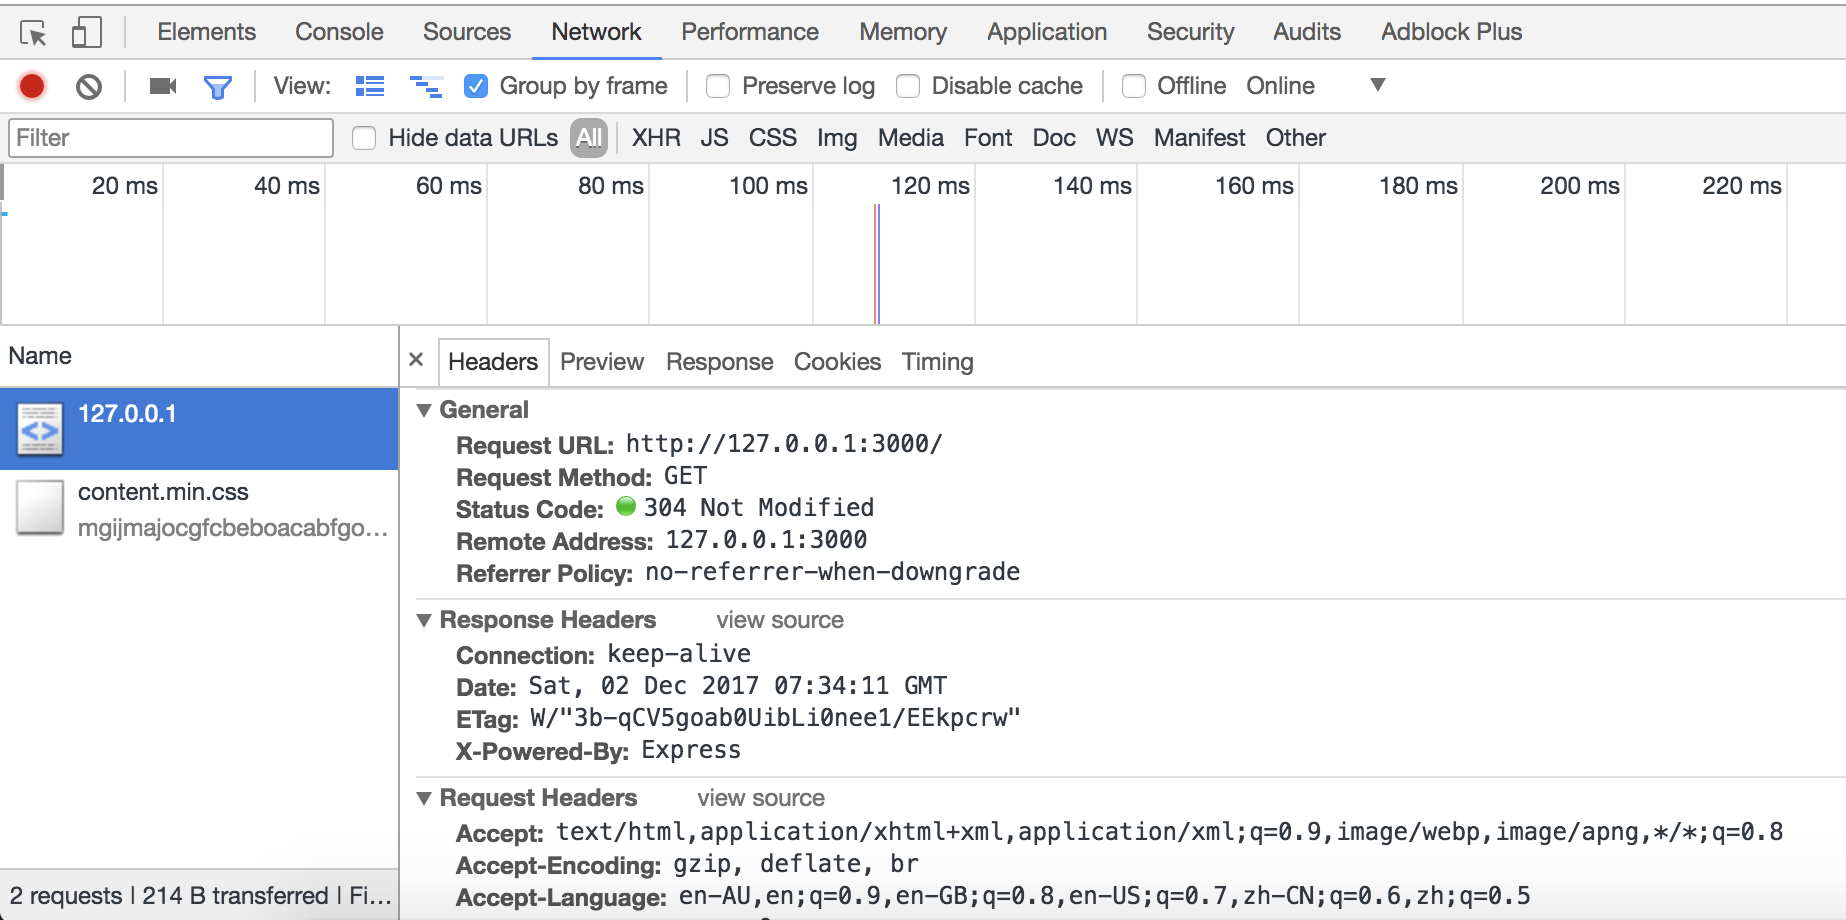
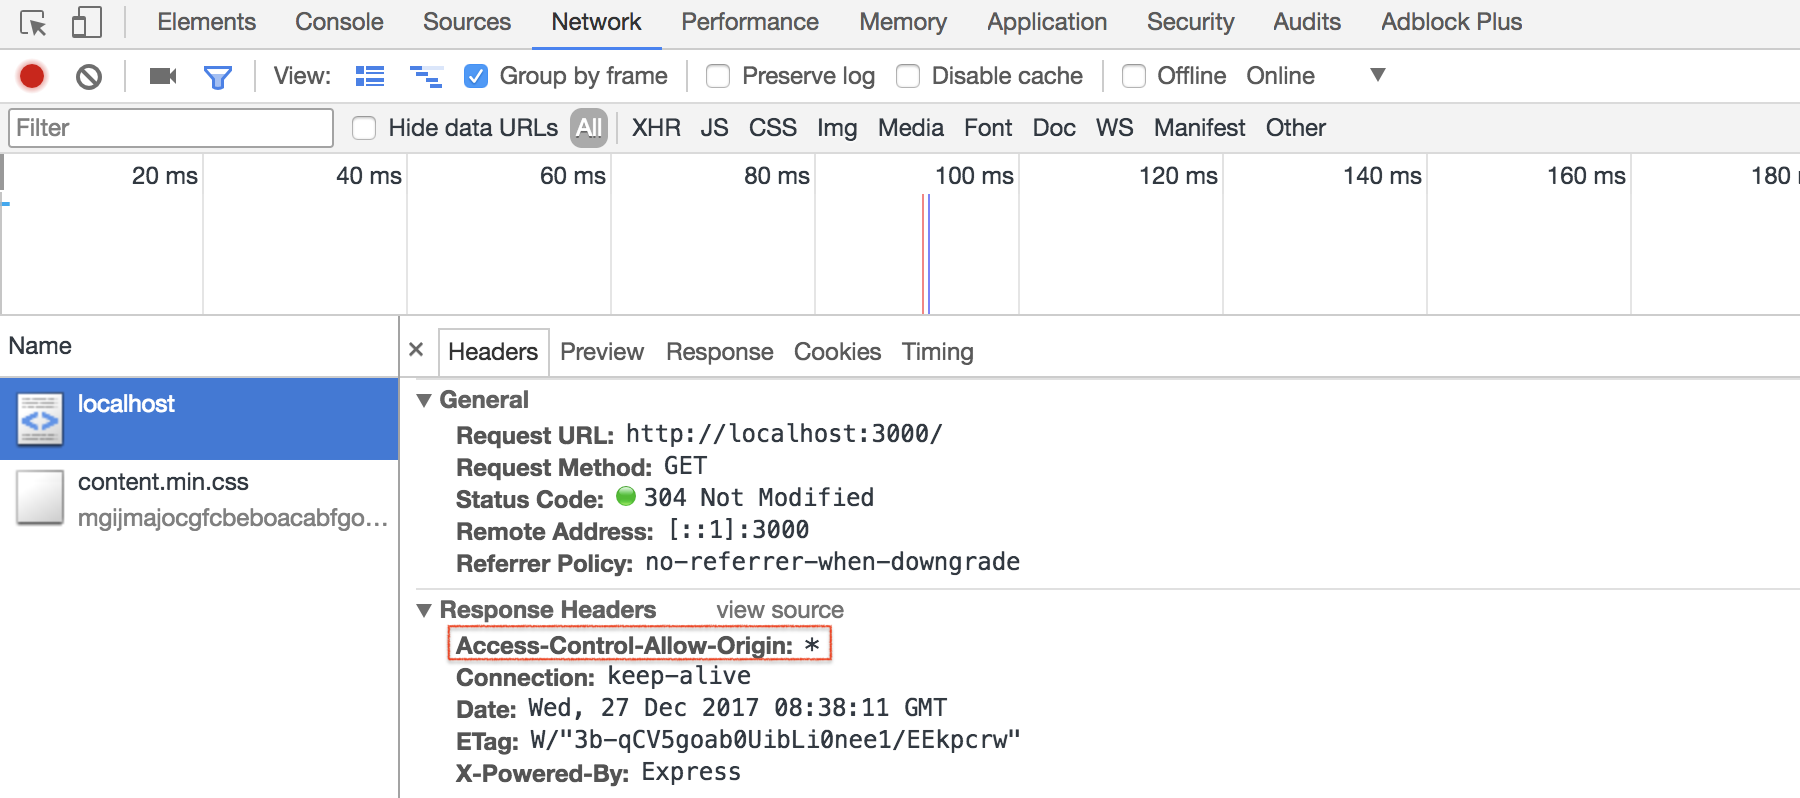
add post 2017-12-27-middleware-tutorial

diff --git a/_posts/ithome/2017/2017-12-27-middleware-tutorial.md b/_posts/ithome/2017/2017-12-27-middleware-tutorial.md
@@ -1,6 +1,6 @@
 ---
 layout: post
-title: '[JS學習筆記] 新增 middleware(body-parser、cors、morgan)'
+title: '[Node.js打造API] 新增 middleware(body-parser、cors、morgan)'
 categories: '2018iT邦鐵人賽'
 description: '新增middleware(body-parser、cors、morgan)'
 keywords: Express, MVC, Router, middleware
@@ -36,7 +36,7 @@ yarn add body-parser
 
 ##### 2.設定 body-parser 的 middleware
 
-還記得 express.js 這個檔案嗎？先前有提到他是管理所有 middleware 中介軟體的所有設定，所以我們今天就要在這個檔案內做設定，由於現階段還沒正式開始寫 API 所以這篇教學並不會馬上測試結果，等後面幾篇寫好 POST 的 API我們就可以馬上來試囉。
+還記得 express.js 這個檔案嗎？先前有提到他是管理所有 middleware 中介軟體的所有設定，所以我們今天就要在這個檔案內做設定，由於現階段還沒正式開始寫 API 所以這篇教學並不會馬上測試結果，等後面幾篇寫好 POST 的 API 我們就可以馬上來試囉。
 
 ```js
 import bodyParser from 'body-parser';
@@ -72,8 +72,12 @@ import cors from 'cors';
 // enable CORS - Cross Origin Resource Sharing
 app.use(cors());
 ```
+- 有加跨來源資源共享
 
 <img src="/images/posts/it2018/img1061227-3.png">
+
+- 無加跨來源資源共享
+
 <img src="/images/posts/it2018/img1061227-4.png">
 
 當然你也可以在每個路由中手動設定存取權限的標頭檔，此種方法就可以不用使用 cors 但很麻煩要在每個路由中設定 `res.header`。
@@ -114,3 +118,5 @@ app.use(morgan('dev'));
 `yarn build` 和 `yarn start` 後開啟瀏覽器輸入 `http://127.0.0.1:3000/` 再回來看終端機上你可以發現真的多出 HTTP request logger 紀錄了，每當你呼一次 API 後台就會記錄你的存取狀態是不是很方便呢！
 
 <img src="/images/posts/it2018/img1061227-5.png">
+
+範例程式碼：https://github.com/andy6804tw/RESTful_API_start_kit/tree/V4.0.0
